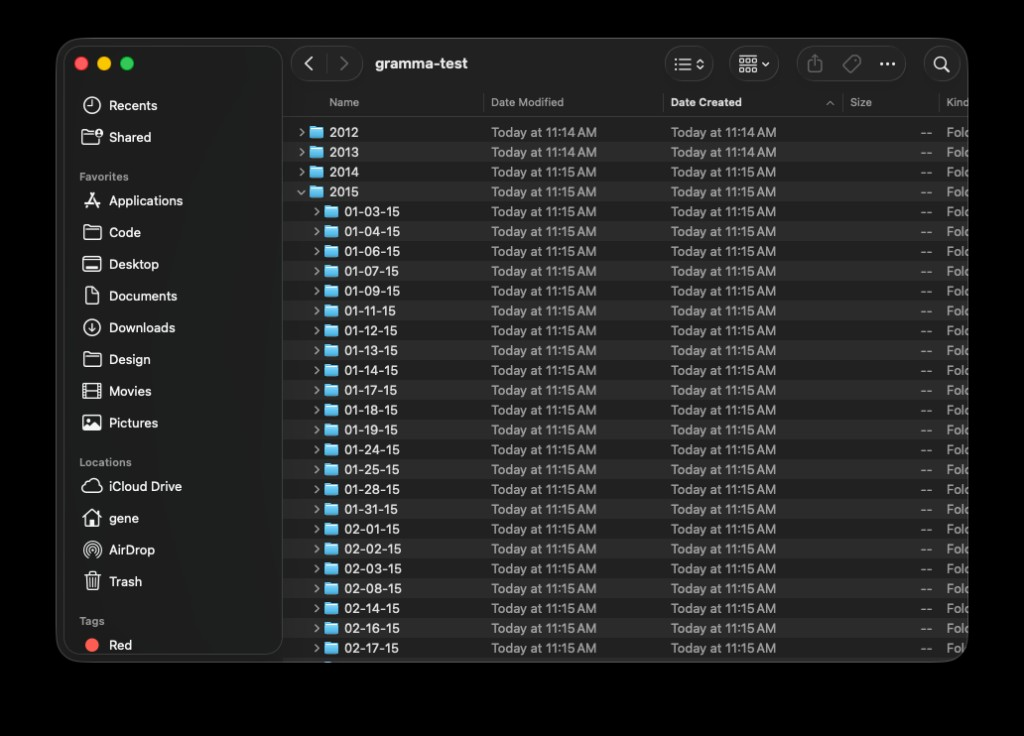
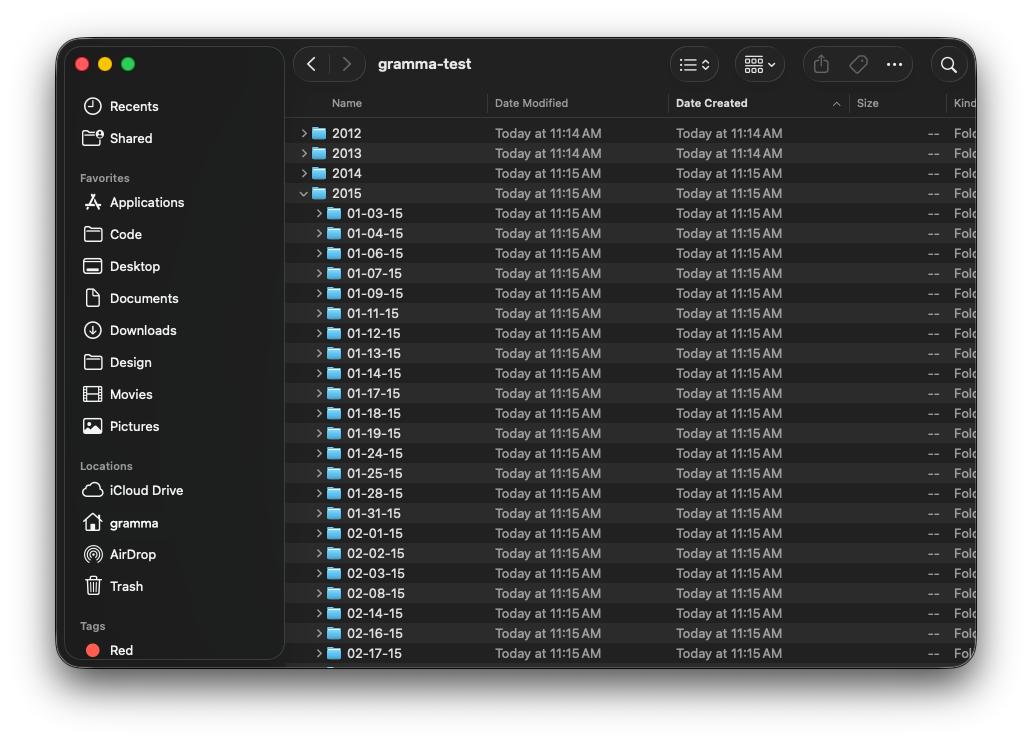
Use transparent Finder before/after screenshots on landing page.
Copy updated PNGs from Desktop and style them without box shadows or backgrounds.

Changed region(s): [[0.0, 0.0, 1.0, 1.0], [0.0938, 0.6875, 0.1562, 0.7188], [0.3125, 0.6562, 0.3438, 0.6875]]

diff --git a/gramma/grammafold/index.html b/gramma/grammafold/index.html
@@ -89,7 +89,7 @@
             <span id="before-label" class="panel__label panel__label--before">Before</span>
             <p class="step__text">Photos and videos scattered in one folder.</p>
             <figure class="before-after__shot">
-              <img class="screenshot" src="assets/screenshots/07-finder-before.png" width="900" height="563" alt="Finder window showing thousands of unsorted photos in a single folder">
+              <img class="screenshot screenshot--transparent" src="assets/screenshots/07-finder-before.png" width="1032" height="742" alt="Finder window showing thousands of unsorted photos in a single folder">
             </figure>
           </article>
 
@@ -97,7 +97,7 @@
             <span id="after-label" class="panel__label panel__label--after">After</span>
             <p class="step__text">A clear folder for each date, organized by year.</p>
             <figure class="before-after__shot">
-              <img class="screenshot" src="assets/screenshots/08-finder-after.png" width="900" height="563" alt="Finder window showing photos organized into year folders and date subfolders">
+              <img class="screenshot screenshot--transparent" src="assets/screenshots/08-finder-after.png" width="1032" height="742" alt="Finder window showing photos organized into year folders and date subfolders">
             </figure>
           </article>
         </div>

diff --git a/gramma/grammafold/css/styles.css b/gramma/grammafold/css/styles.css
@@ -694,6 +694,7 @@ summary:focus-visible {
 }
 
 .screenshot--plain,
+.screenshot--transparent,
 .hero__screenshot {
   border: none;
   box-shadow: none;
